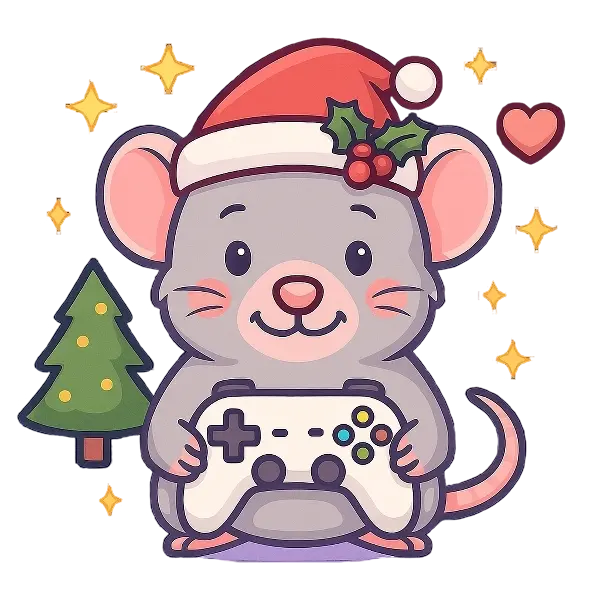
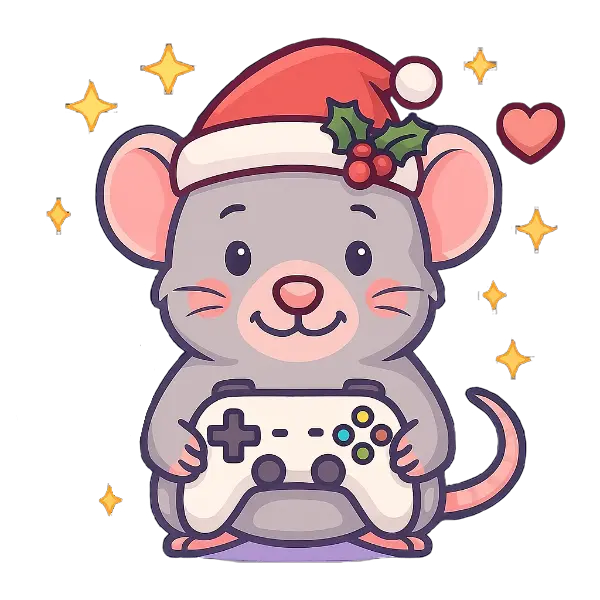
1

diff --git a/index.html b/index.html
@@ -32,7 +32,7 @@
             <video muted playsinline preload="none" class="rats-video" src="Video/Rat_2.webm"></video>
             <video muted playsinline preload="none" class="rats-video" src="Video/Rat_1_Mirrored.webm"></video>
             <video muted playsinline preload="none" class="rats-video" src="Video/Rat_2_Mirrored.webm"></video>
-            <img src="images/Pupsik_TV_Header_2.webp" alt="PupsikTV Header">
+            <img src="images/Pupsik_TV_Header_NY.webp" alt="PupsikTV Header">
             <h1>PupsikTV</h1>
             <nav class="social-links">
                 <a href="https://www.twitch.tv/pupsik_ow" target="_blank" rel="noopener noreferrer" aria-label="Twitch" class="social-link"><i class="fab fa-twitch"></i></a>
